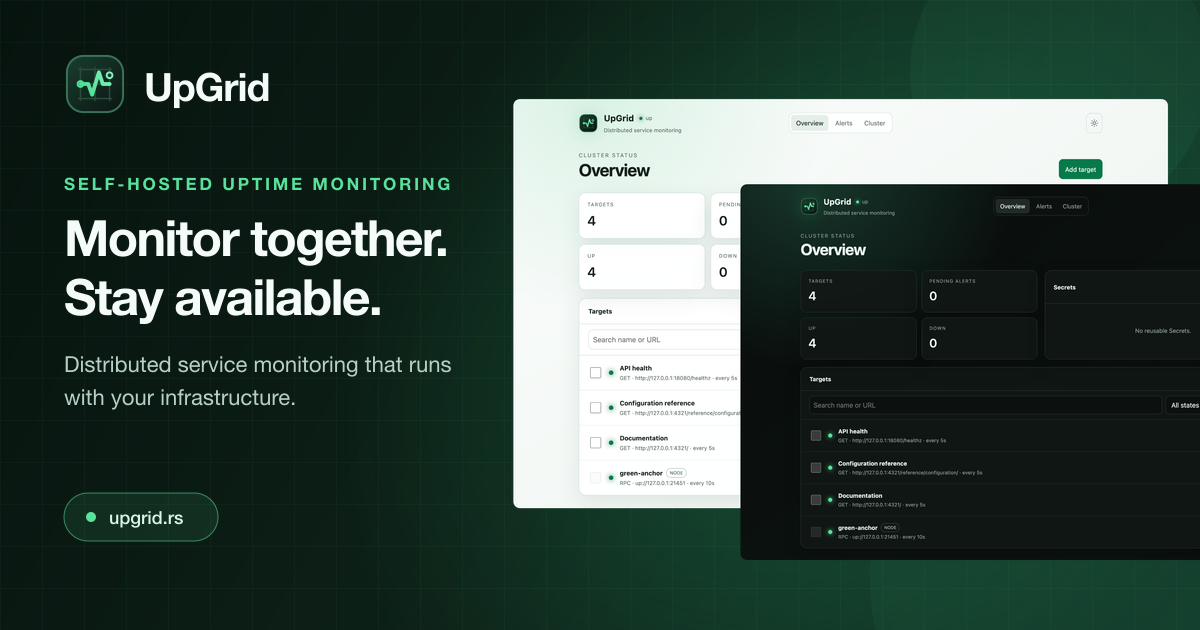
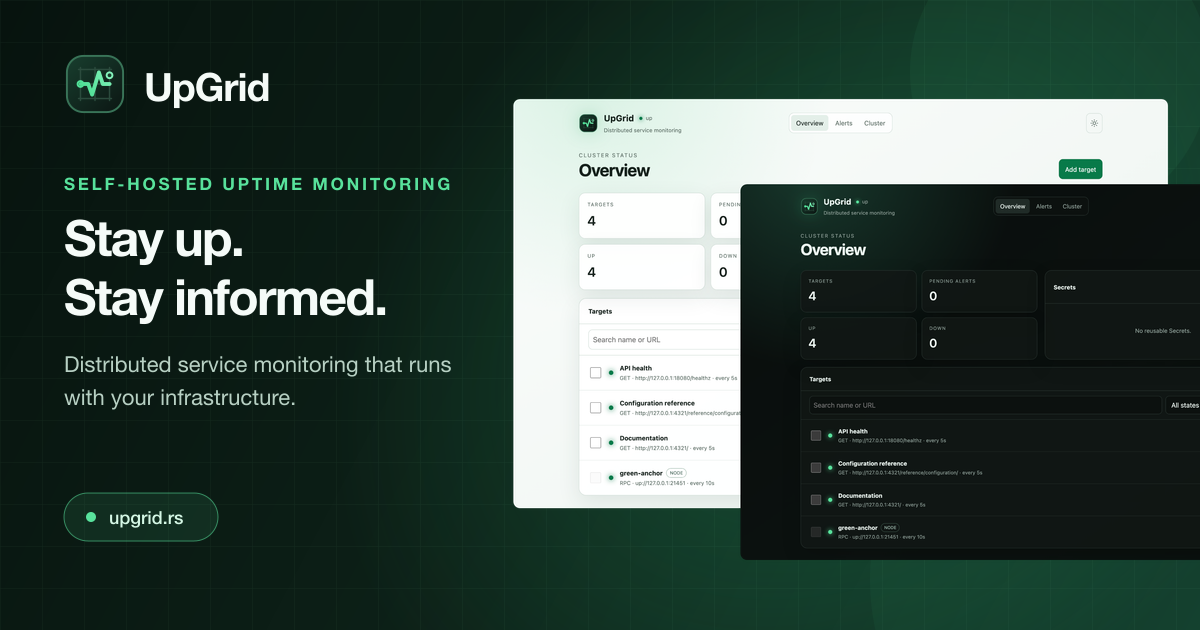
docs: update brand slogan

Changed region(s): [[0.0308, 0.3317, 0.37, 0.5127]]

diff --git a/AGENTS.md b/AGENTS.md
@@ -24,6 +24,8 @@ Panel and card headers contain only the title, controls, and compact status meta
 All clickable UI items use `cursor: pointer`, and their text is not selectable. Disabled controls use `cursor: not-allowed`.
 Use sentence case in all documentation and user-facing UI text. Capitalize only the first word of a sentence or label. Never capitalize an inline word because it is a domain term, page name, feature name, or other special term; use `cluster` and `target`, not `Cluster` or `Target`. This rule does not apply to case-sensitive code identifiers.
 
+The UpGrid slogan is **Stay up. Stay informed.** Its supporting line is **Distributed service monitoring that runs with your infrastructure.** Use this exact wording in brand and marketing material.
+
 ## Testing guidelines
 
 Use `#[compio::test]` for async Rust tests and local `#[cfg(test)]` modules for units. Name tests by behavior, for example `rejects_invalid_scheme`. Browser workflows use Playwright against the real embedded app; avoid tests coupled to Lit internals. Fixed-port `master`/`worker` fixtures are manual, so never run the unfiltered Rust suite in automation. Avoid port collisions and terminate spawned tasks.
